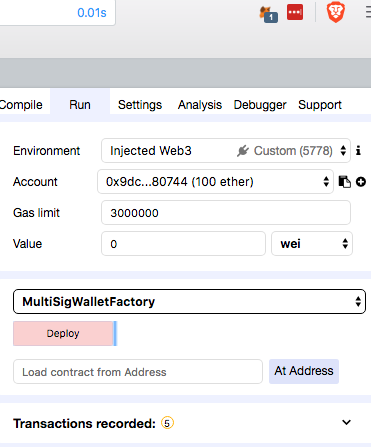
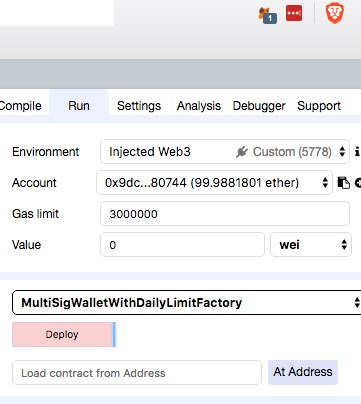
meetup 5 update.

diff --git a/Meetup_5/README.md b/Meetup_5/README.md
@@ -37,7 +37,7 @@ You will have a local Ethereum blockchain running and 10 accounts loaded with 10
 2.5. Now do the same for the second account in your Ganache instance.
 
 
-# 3. Deploy MultiSig Wallet Contract
+# 3. Deploy MultiSig Wallet With DailyLimit Factory Contract
 
 3.1. In your browser go to https://remix.ethereum.org
 
@@ -51,11 +51,11 @@ You will have a local Ethereum blockchain running and 10 accounts loaded with 10
 
 ![remix_init](images/remix_init.png)
 
-3.5. Click on the Start to Compile button while MultiSigFactory is selected. You should see a bunch of output below. These are just warnings - unless they are red. The contract has still be compiled.
+3.5. Click on the Start to Compile button while MultiSigWalletWithDailyLimitFactory is selected. You should see a bunch of output below. These are just warnings - unless they are red. The contract has still be compiled.
 
 ![remix_compile_multisigfactory](images/remix_compile_multisigfactory.png)
 
-3.6. On the Run tab click the Deploy button while MultiSigFactory is selected. This will trigger a confirmation in MetaMask, indicated by the small 1 that shows on the MetaMask icon.
+3.6. On the Run tab click the Deploy button while MultiSigWalletWithDailyLimitFactory is selected. This will trigger a confirmation in MetaMask, indicated by the small 1 that shows on the MetaMask icon.
 
 ![remix_deploy_multisigfactory](images/remix_deploy_multisigfactory.png)
 
@@ -63,25 +63,19 @@ You will have a local Ethereum blockchain running and 10 accounts loaded with 10
 
 ![remix_metamask_submit](images/remix_metamask_submit.png)
 
-3.8. Once the transaction is mined, you should now have a deployed MultiSigFactory contact. It will be visible from Remix under Deployed Contracts.
+3.8. Once the transaction is mined, you should now have a deployed MultiSigWalletWithDailyLimitFactory contact. It will be visible from Remix under Deployed Contracts.
+
+Copy the address of this contact by clicking the copy symbol beside the deployed contract details.
 
 ![remix_deployed_multisigfactory](images/remix_deployed_multisigfactory.png)
 
-3.9. Create MultiSigWallet from deployed MultiSigWalletFactory contract.
 
-For the _owners field use your *Ganache 1* account. 
- 
-![remix_multisigfactory_create](images/remix_multisigfactory_create.png)
+# 4. Create MultiSig Wallet
 
-Then click Transact. Then submit transaction using MetaMask.
+4.1. Go to https://wallet.gnosis.pm. 
 
-3.10 Click on the Down arrow symbol in the debug output in Remix.
+4.2. Go to Settings. 
 
-![remix_debug_closed](images/remix_debug_closed.png)
-
-3.11 Get address of the MutiSigWallet created.
-
-![remix_debug_opened](images/remix_debug_opened.png)
 
 # Deploy ERC20 Contract
 
